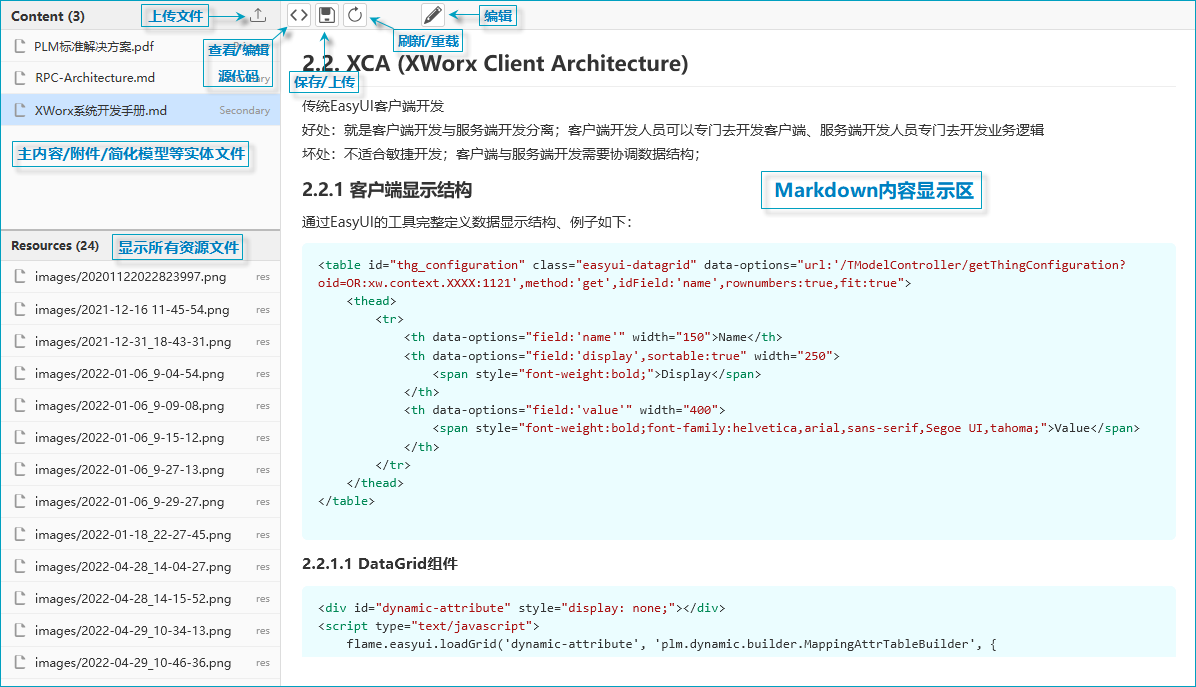
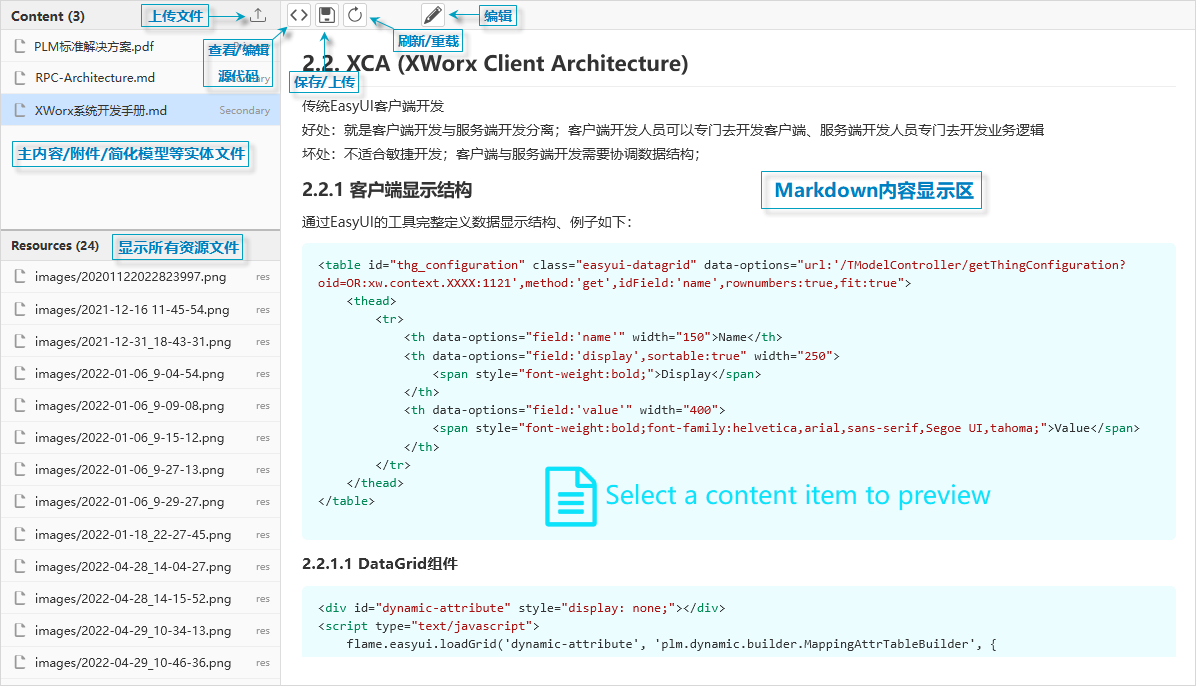
feat:在XMarkdown打开时默认显示介绍图片和提示文本

diff --git a/src/main/resources/thymeleaf/content/objectContentTab.html b/src/main/resources/thymeleaf/content/objectContentTab.html
@@ -2,12 +2,12 @@
 <html xmlns="http://www.w3.org/1999/xhtml" xmlns:th="http://www.thymeleaf.org">
 <style>
 	.content-wrap { display: flex; height: 100%; }
-	.content-left { width: 280px; min-width: 200px; border-right: 1px solid #ddd; display: flex; flex-direction: column; background: #fafafa; }
+	.content-left { width: 280px; min-width: 200px; border-right: 1px solid #ddd; display: flex; flex-direction: column; background: #ebfdff; }
 	.content-left-section { flex: 1; display: flex; flex-direction: column; overflow: hidden; min-height: 0; }
 	.content-left-section:last-child { flex: 2; }
 	.content-left-section + .content-left-section { border-top: 2px solid #bbb; }
-	.section-header { padding: 6px 10px; font-weight: bold; font-size: 12px; border-bottom: 1px solid #ddd; background: #f0f0f0; flex-shrink: 0; display: flex; align-items: center; justify-content: space-between; }
-	.content-left-header { padding: 2px 10px; font-weight: bold; font-size: 13px; border-bottom: 1px solid #ddd; background: #f0f0f0; flex-shrink: 0; display: flex; align-items: center; justify-content: space-between; }
+	.section-header { padding: 6px 10px; font-weight: bold; font-size: 12px; border-bottom: 1px solid #ddd; background: #abfbfb; flex-shrink: 0; display: flex; align-items: center; justify-content: space-between; }
+	.content-left-header { padding: 2px 10px; font-weight: bold; font-size: 13px; border-bottom: 1px solid #ddd; background: #abfbfb; flex-shrink: 0; display: flex; align-items: center; justify-content: space-between; }
 	.content-left-header .upload-btn { cursor: pointer; color: #666; font-size: 15px; padding: 0px 4px; border-radius: 3px; transition: color 0.2s, background 0.2s; }
 	.content-left-header .upload-btn:hover { color: #1a73e8; background: #dce8fa; }
 	.content-left-list { overflow-y: auto; flex: 1; }
@@ -19,7 +19,7 @@
 	.content-list-item .ct-type { font-size: 10px; color: #999; margin-left: 4px; flex-shrink: 0; }
 	.content-right { flex: 1; position: relative; overflow: hidden; }
 	.content-right .viewer-pane { position: absolute; inset: 0; display: none; }
-	.content-empty { display: flex; align-items: center; justify-content: center; height: 100%; color: #0ae3fa; font-size: 14px; }
+	.content-empty { display: flex; align-items: center; justify-content: center; height: 100%; color: #abfbfb; font-size: 14px; }
 	.content-empty i { margin-right: 6px; }
 	#genericViewer { padding: 24px; overflow-y: auto; }
 	#genericViewer table td { padding: 4px 8px; font-size: 13px; }
@@ -88,8 +88,6 @@
 			<!-- Empty state -->
 			<div id="emptyState" class="content-empty" style="position:absolute;inset:0;display:flex;">
 				<img th:src="@{/images/thing/markdown.png}" alt="" style="position:absolute;inset:0;max-width:100%;max-height:100%;object-fit:contain;margin:auto;" />
-				<i class="fa fa-file-text-o" style="font-size:48px;color:#0ae3fa;margin-right:14px;z-index:1;"></i>
-				<span style="z-index:1;">Select a content item to preview</span>
 			</div>
 			<!-- Markdown viewer -->
 			<div id="markdownViewer" class="viewer-pane">

diff --git a/src/main/resources/javascript/flame/marked.xui.js b/src/main/resources/javascript/flame/marked.xui.js
@@ -157,7 +157,7 @@
     align-items: center;
     justify-content: space-between;
     padding: 2px 6px;
-    background: #f8f8f8;
+    background: #abfbfb;
     border-bottom: 1px solid #e0e0e0;
     flex-shrink: 0;
     min-height: 28px;
@@ -169,7 +169,7 @@
     justify-content: center;
     padding: 2px;
     border: 1px solid #d0d0d0;
-    background: #fff;
+    background: #ebfdff;
     border-radius: 3px;
     cursor: pointer;
     font-size: 13px;